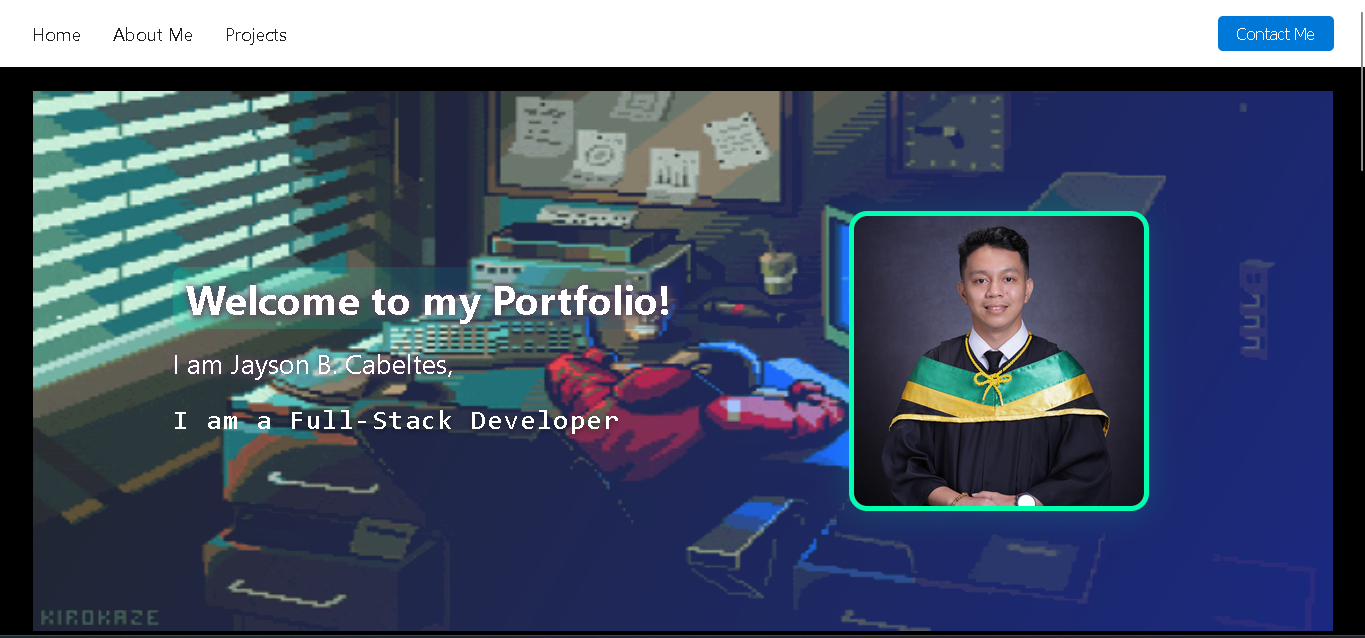
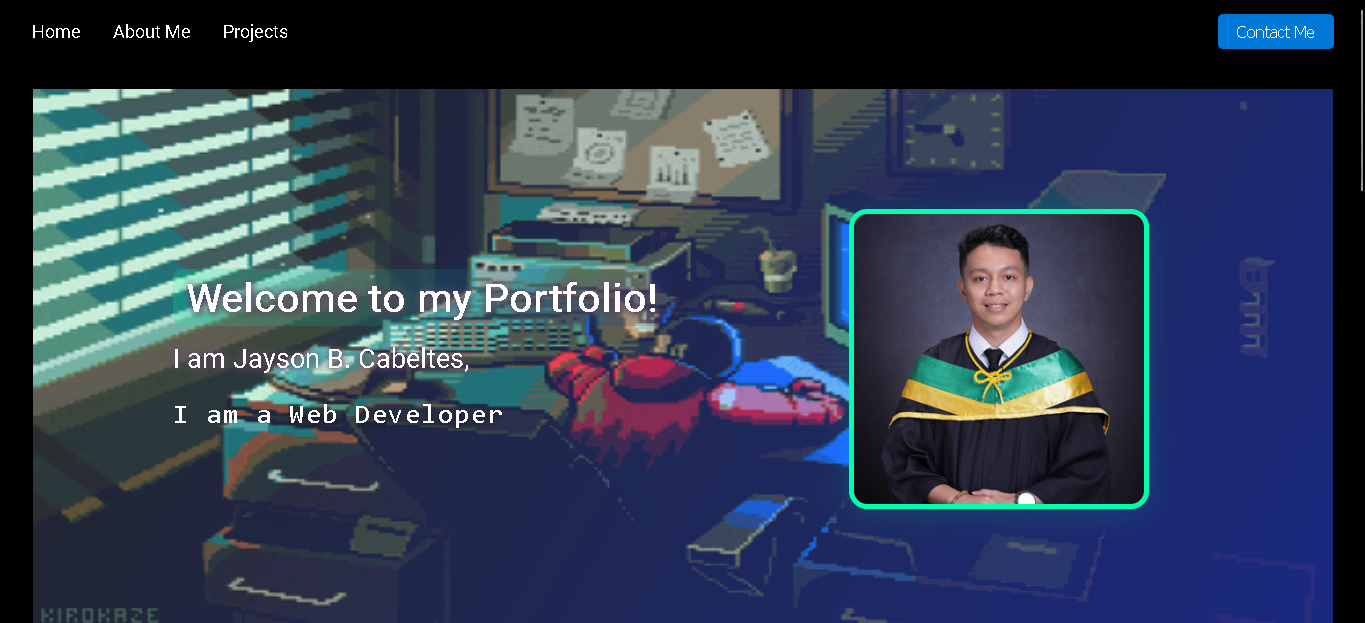
Partial 10% Portfolio 6

diff --git a/src/sections/aboutme.css b/src/sections/aboutme.css
@@ -64,7 +64,6 @@
 
 /* Skills Section */
 .skills-section {
-  margin-top: 3rem;
   width: 100%;
   text-align: center;
 }
@@ -113,7 +112,6 @@
 
 /* Certificates Section */
 .certificates-section {
-  margin-top: 2rem;
   width: 100%;
 }
 
@@ -131,12 +129,15 @@
   box-shadow: 0 0 16px #00ffae44;
   display: flex;
   flex-direction: column;
-  align-items: center;
+  justify-content: center; /* vertical center */
+  align-items: center;     /* horizontal center */
   padding: 1rem 0.5rem;
   transition: transform 0.2s, box-shadow 0.2s, border-color 0.2s;
   cursor: pointer;
   position: relative;
+  height: 100%; /* ensures card fills grid cell */
 }
+
 .certificate-card:hover {
   transform: scale(1.07);
   box-shadow: 0 0 24px #00ffaecc;
@@ -159,6 +160,10 @@
   font-weight: bold;
   text-align: center;
   margin-top: 0.2rem;
+  flex: 1; /* take available vertical space */
+  display: flex;
+  align-items: center;    /* vertical center */
+  justify-content: center;/* horizontal center */
 }
 
 /* Certificate Modal */

diff --git a/src/App.css b/src/App.css
@@ -1,4 +1,5 @@
 /* index.css or App.css */
+@import url('https://fonts.googleapis.com/css2?family=Montserrat:wght@400;700&family=Roboto&family=Poppins&display=swap');
 
 * {
   margin: 0;
@@ -11,7 +12,7 @@ body, html {
   height: 100%;
   margin: 0;
   padding: 0;
-  font-family: 'Segoe UI', 'Roboto', 'Arial', sans-serif;
+  font-family: 'Roboto', 'Poppins', 'Segoe UI', 'Arial', sans-serif;
   background-color: #000000;
   min-height: 100vh;
 }
@@ -73,7 +74,7 @@ section {
   align-items: center;
   gap: 2rem;
   padding: 1.2rem 0 1.2rem 0;
-  background: #ffffff;
+  background: #000000;
   position: relative;
   bottom: 0;
   left: 0;

diff --git a/src/components/navbar.css b/src/components/navbar.css
@@ -3,7 +3,7 @@
   display: flex;
   justify-content: space-between;
   align-items: center;
-  background: #fff;
+  background: #000000;
   box-shadow: 0 2px 8px rgba(0,0,0,0.04);
   padding: 1rem 2rem;
   position: sticky;
@@ -22,7 +22,7 @@
 .navbar-item {
   font-size: 1.1rem;
   font-weight: 500;
-  color: #222;
+  color: #ffffff;
   cursor: pointer;
   transition: color 0.2s;
 }

diff --git a/src/sections/Home.jsx b/src/sections/Home.jsx
@@ -6,7 +6,7 @@ import pixelBg from "../assets/pixel-background.gif";
 const roles = [
   "Full-Stack Developer",
   "IoT Developer",
-  "Master Programmer"
+  "Web Developer"
 ];
 
 // You can adjust the typing and erasing speed here:

diff --git a/src/components/footer.css b/src/components/footer.css
@@ -5,7 +5,7 @@
   align-items: center;
   gap: 2rem;
   padding: 1.2rem 0 1.2rem 0;
-  background: #222;
+  background: #ffffff;
   position: relative;
   bottom: 0;
   left: 0;
